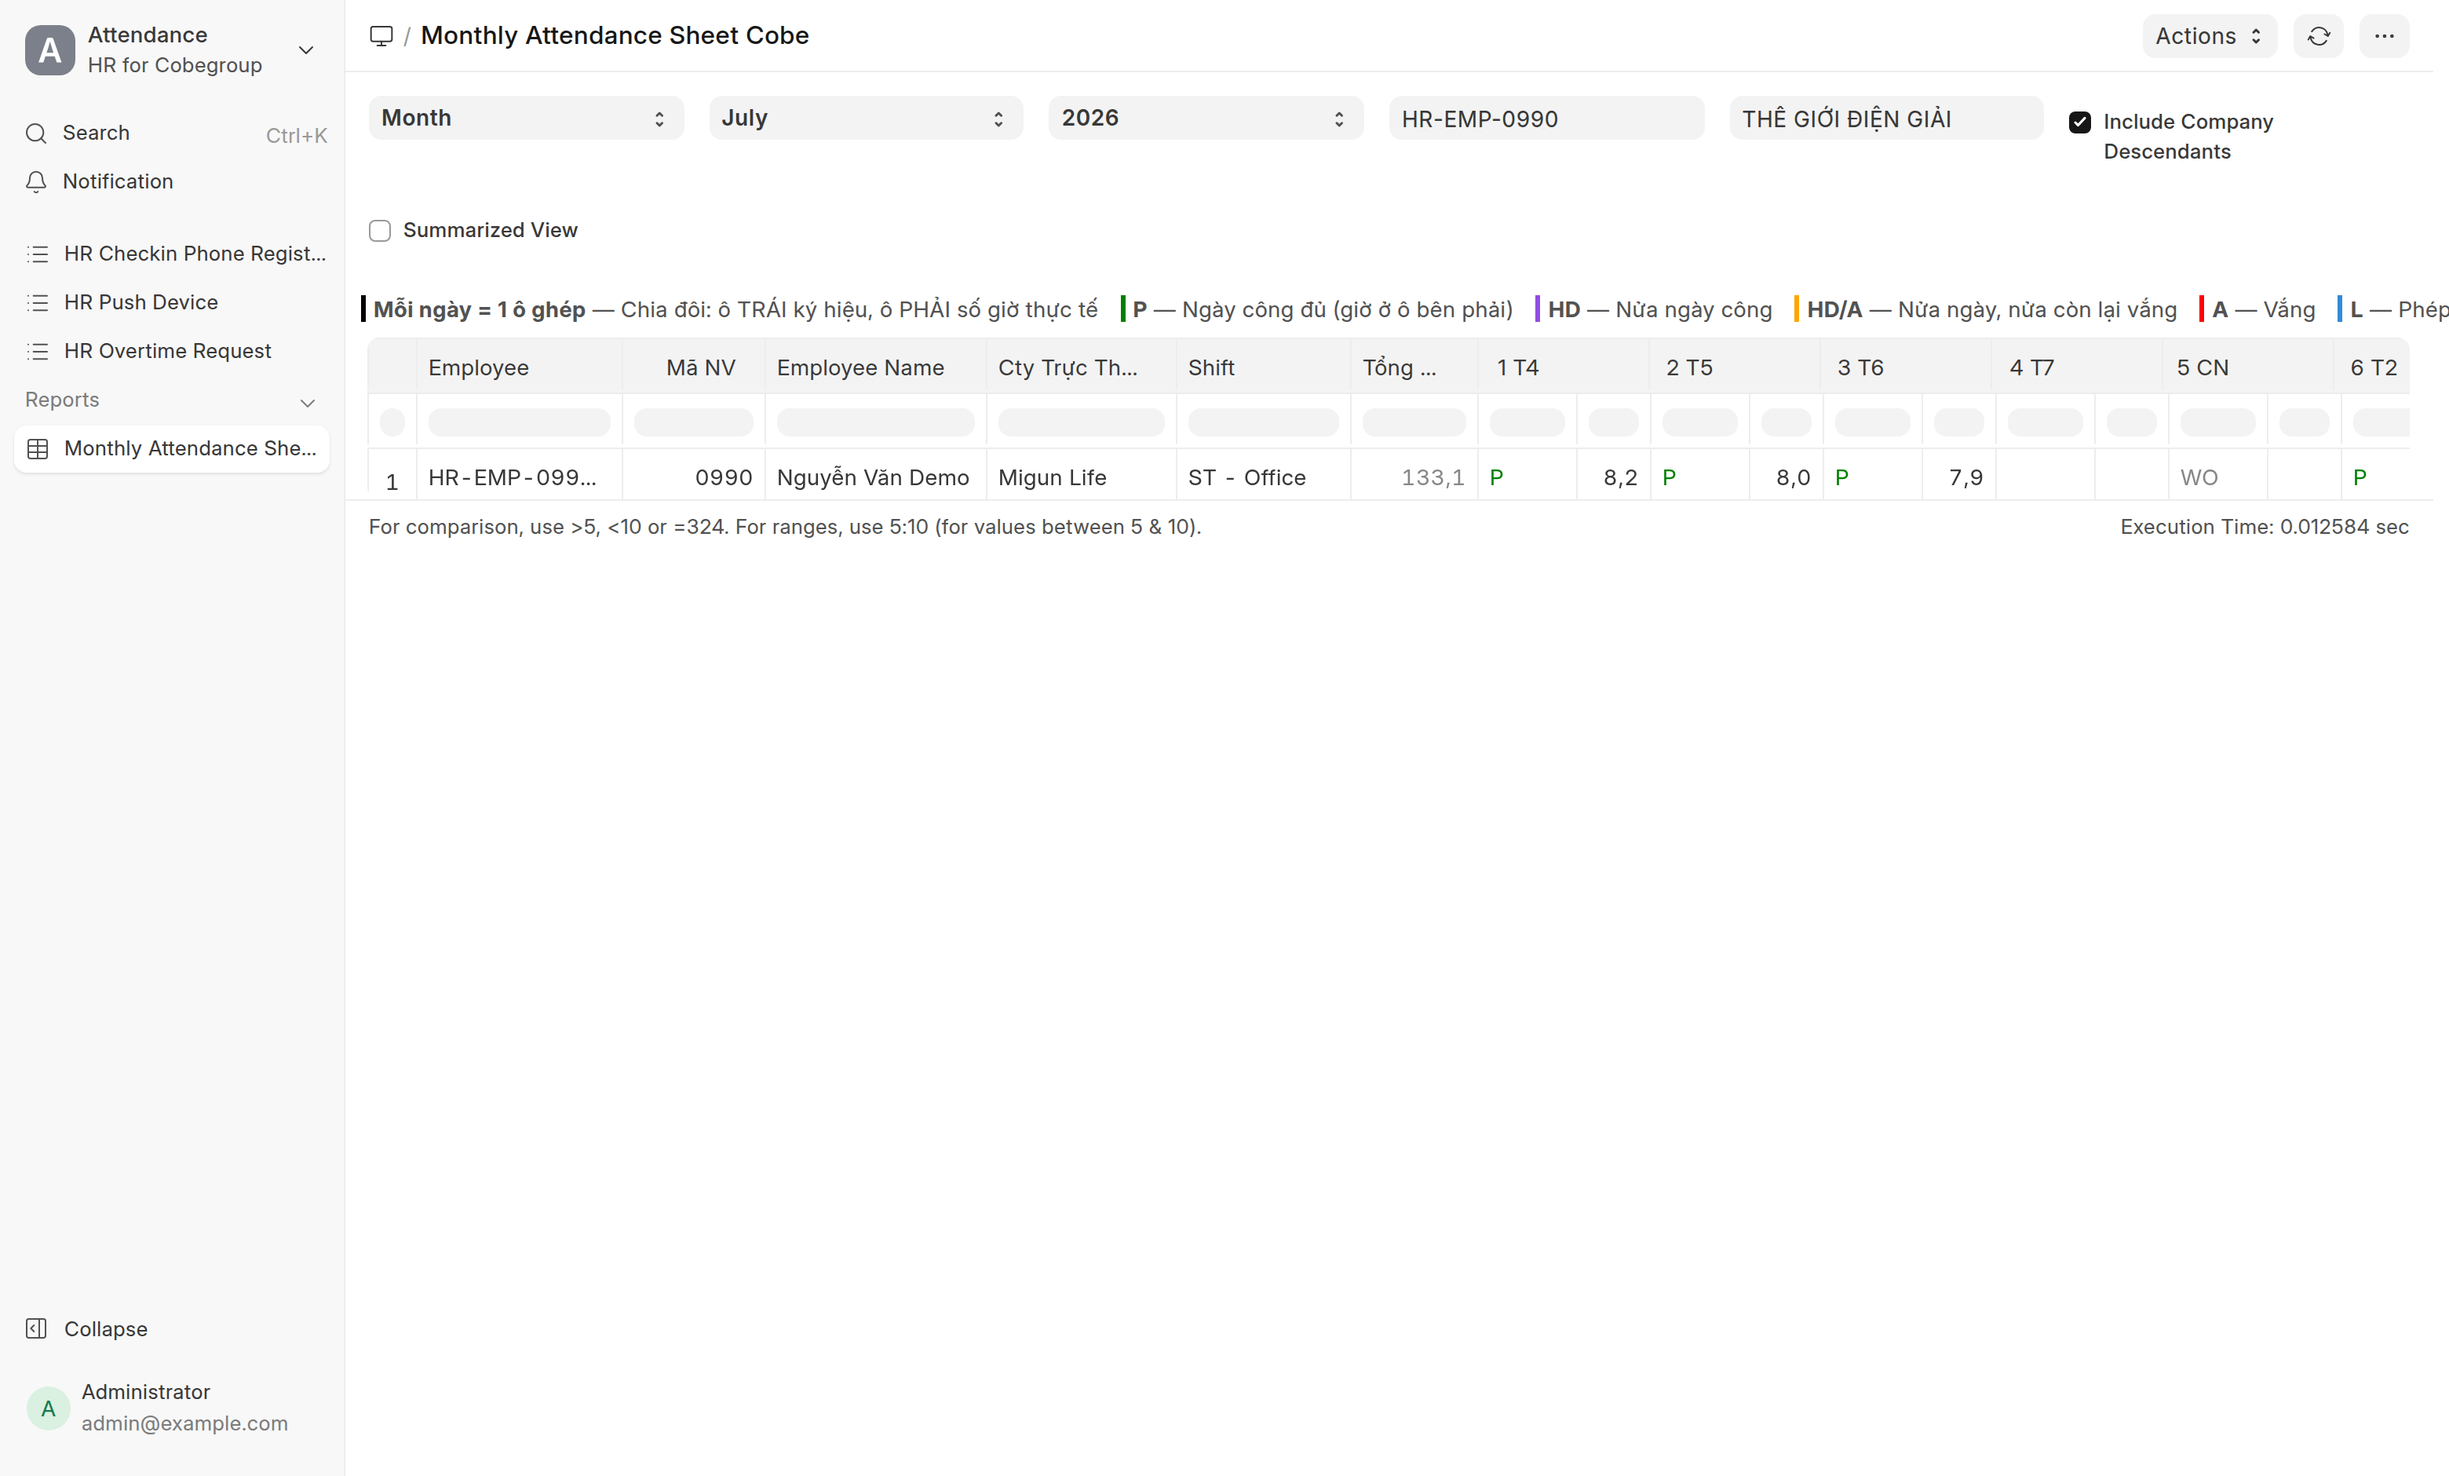
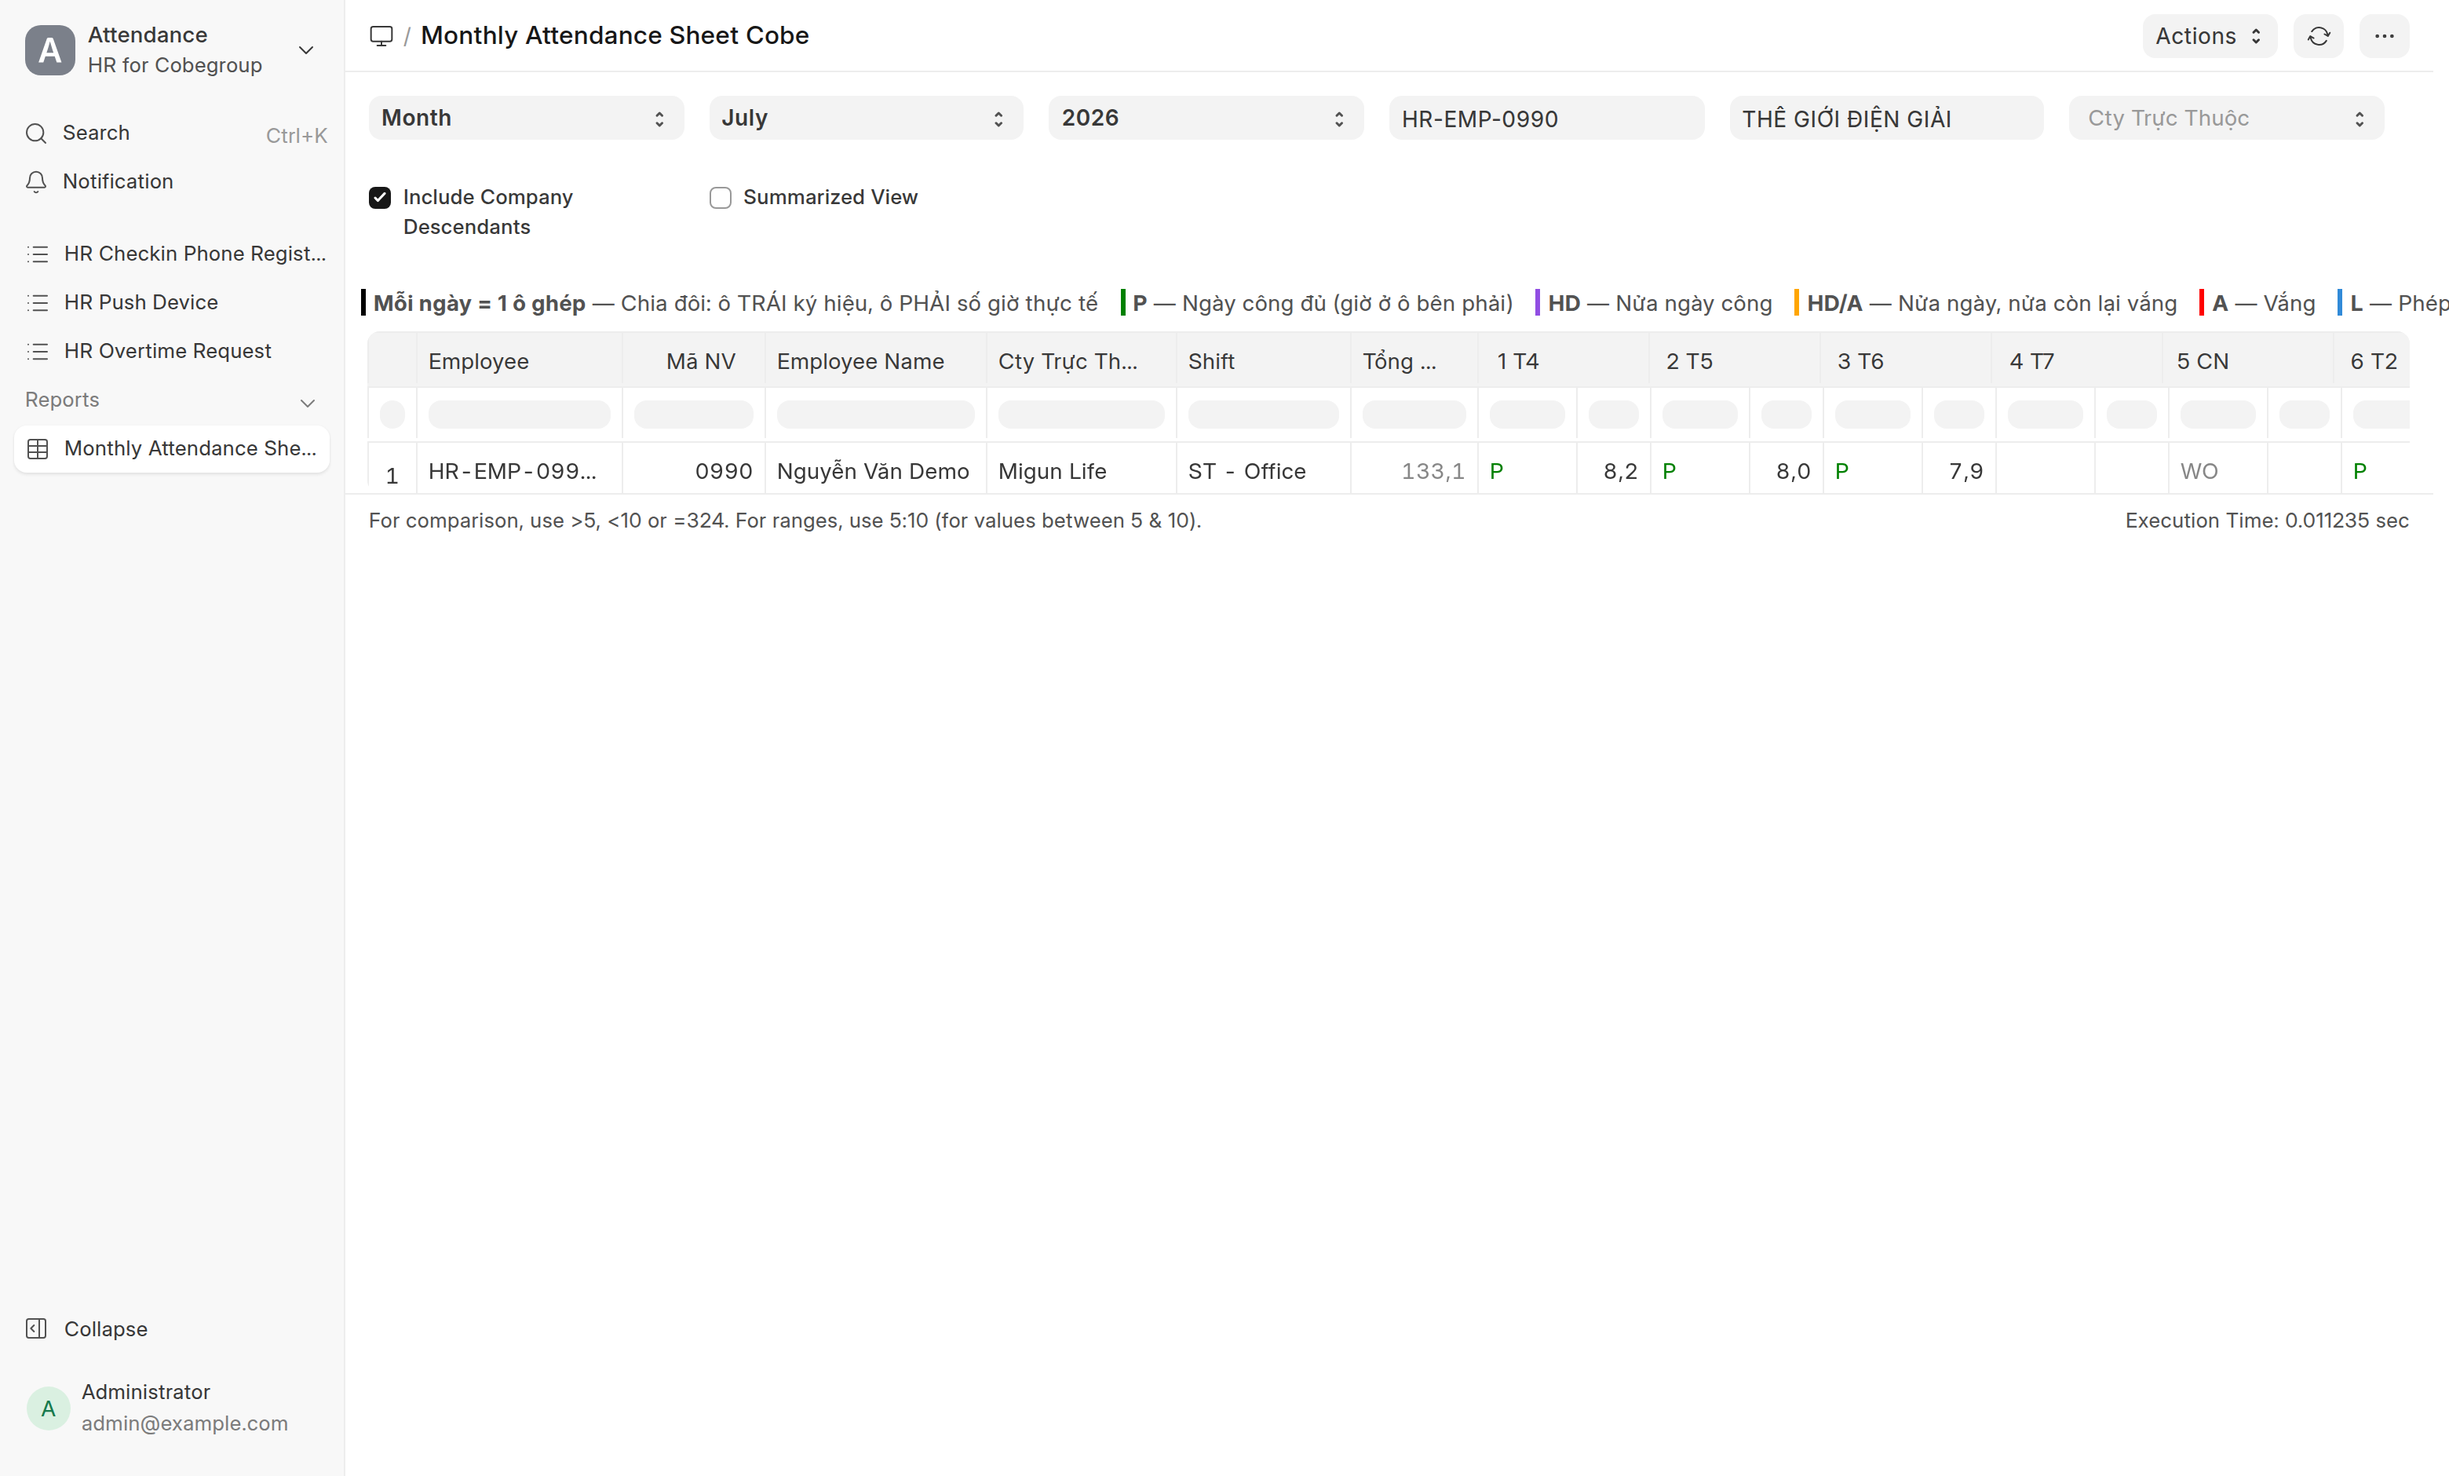
docs(hr): report Cobe thêm filter Cty Trực Thuộc + ảnh mới

diff --git a/users/Desk-HR-BaoCao.md b/users/Desk-HR-BaoCao.md
@@ -20,7 +20,7 @@ nav_order: 6
 
 | Báo cáo | Cho biết |
 |---|---|
-| **[Monthly Attendance Sheet **Cobe**](Desk-HR-BangCongThang.html)** *(dùng bản này)* | Bảng công **cả tháng** từng nhân viên, thêm **Mã NV · Công ty trực thuộc · Tổng giờ**; **mỗi ngày là 1 ô ghép chia đôi** (nửa ký hiệu + nửa **số giờ**; xuất Excel tách 2 cột cộng được), ký hiệu theo loại phép (L/L2/NB/KL/CĐ/BH/WFH/H/WO). **Bỏ trống Company = mọi công ty.** → **[Hướng dẫn chi tiết](Desk-HR-BangCongThang.html)** |
+| **[Monthly Attendance Sheet **Cobe**](Desk-HR-BangCongThang.html)** *(dùng bản này)* | Bảng công **cả tháng** từng nhân viên, thêm **Mã NV · Công ty trực thuộc · Tổng giờ**; **mỗi ngày là 1 ô ghép chia đôi** (nửa ký hiệu + nửa **số giờ**; xuất Excel tách 2 cột cộng được), ký hiệu theo loại phép (L/L2/NB/KL/CĐ/BH/WFH/H/WO). **Bỏ trống Company = mọi công ty**; lọc thêm được theo **Cty Trực Thuộc** (nhóm gốc trước gộp cty). → **[Hướng dẫn chi tiết](Desk-HR-BangCongThang.html)** |
 | Monthly Attendance Sheet *(bản gốc HRMS)* | Bản đơn giản: mỗi ngày **P / A / HD / L / WFH / H / WO**, bắt buộc chọn company, là "prepared report". Ưu tiên dùng **bản Cobe** ở trên. |
 | **Shift Attendance** | Chấm công **theo ca** (giờ vào/ra thực tế vs ca), phát hiện đi trễ/về sớm. |
 | **Employees working on a holiday** | Ai **đi làm vào ngày lễ** (để tính bù/OT). |

diff --git a/users/Desk-HR-BangCongThang.md b/users/Desk-HR-BangCongThang.md
@@ -40,6 +40,7 @@ Có **hai** báo cáo trùng ý tưởng; HR Cobe **nên dùng bản Cobe**:
 | Ô mỗi ngày | **1 ô ghép/ngày** (`1 T4`) **chia đôi**: nửa trái ký hiệu (`P`) + nửa phải **số giờ** (`8.3`) | 1 ô: chỉ ký hiệu `P`, `HD` |
 | Ký hiệu nghỉ | **Theo loại phép** (tiếng Việt): `L` `L/2` `NB` `KL` `WFH` `CĐ` `BH` `H` `WO` | Gộp chung `L` (On Leave) |
 | Lọc Company | **Bỏ trống = gộp MỌI công ty** | Bắt buộc chọn |
+| Lọc **Cty Trực Thuộc** | **Có** — lọc theo nhóm gốc (trước gộp công ty), độc lập với Company | Không có |
 | Cách chạy | **Chạy thẳng** (bấm là ra) | "Prepared report" — phải **Generate New Report** rồi chờ |
 | Summarized View | Dùng chung phần tổng của bản gốc | *(bản gốc)* |
 
